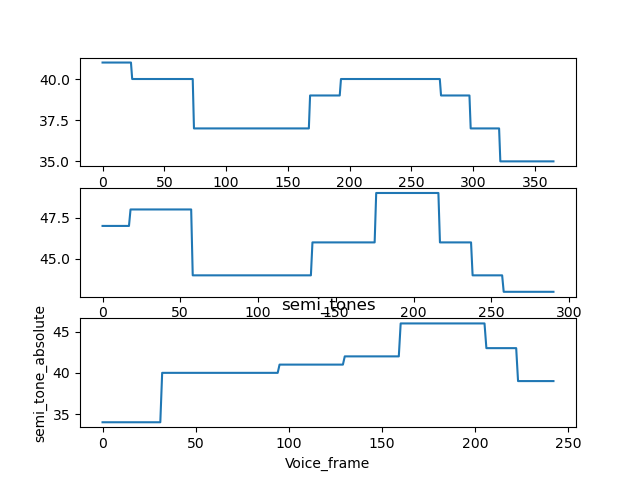
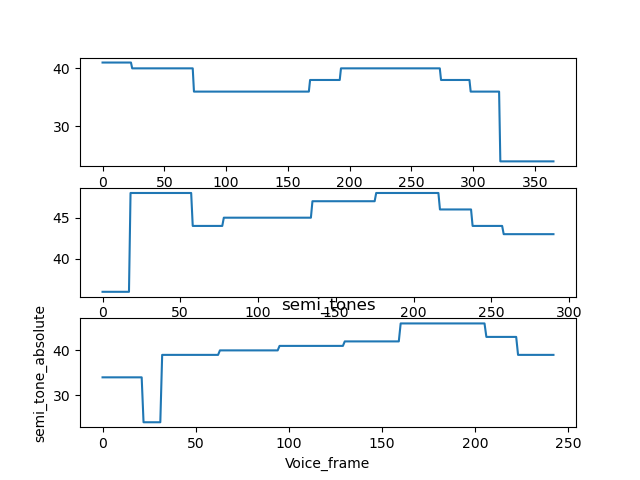
。

diff --git a/assignment2/test.py b/assignment2/test.py
@@ -32,10 +32,10 @@ pitch1 = frIsequence1[0, :]
 
 # test if transposition invariant
 frIsequence1_trans = np.copy(frIsequence1)
-shift = 5
+shift = 7
 for i in range(0, frame_num1):
     # f2 = f1 * (2 ^ (1 / 12)) ^ n
-    frIsequence1_trans[0,i] = frIsequence1[0, i] * 2**(shift/12)
+    frIsequence1_trans[0, i] = frIsequence1[0, i] * 2**(shift/12)
 
 pitch1_trans = frIsequence1_trans[0, :]
 # print(type(pitch1_trans),'what pitch1 trans type')
@@ -56,47 +56,60 @@ pitch1_trans = frIsequence1_trans[0, :]
 # Feature
 pitch_log1, intensity_nor1 = normalized_intensity(frIsequence1)
 filter_pitch1, filter_pitch1_log = filter_pitch(frIsequence1)
+
+print(filter_pitch1, '\n', 'filter_pitch value')
+# print(set(filter_pitch1), '\n', 'filter_pitch value')
+
 voice_frame_num1 = len(filter_pitch1)
 frequence1_temp = np.arange(0, voice_frame_num1)
 
 semi_absolute1, semi_drag1 = semi_adjust(filter_pitch1)
 print(semi_absolute1, '\n', 'absolute tone original')
-print(semi_drag1, '\n', 'trans original')
+notes = semi_absolute1
+# for i in notes:
+#     _,_,_,note = analysis_note(i)
+#     print(note, end="")
+# print(semi_drag1, '\n', 'original drag')
 
 
 
 pitch_log1_trans, intensity_nor1_trans = normalized_intensity(frIsequence1_trans)
 filter_pitch1_trans, filter_pitch1_trans_log = filter_pitch(frIsequence1_trans)
+print(set(filter_pitch1_trans),'\n','filter_pitch_trans value')
 semi_absolute1_trans, semi_drag1_trans = semi_adjust(filter_pitch1_trans)
 
 voice_frame_num1_trans = len(filter_pitch1_trans)
 frequence1_temp_trans = np.arange(0, voice_frame_num1_trans)
 
 
-print(semi_absolute1_trans, '\n', 'absolute tone original trans')
-print(semi_drag1_trans, '\n', 'trans original trans')
+print(semi_absolute1_trans, '\n', 'absolute tone trans')
+# print(semi_drag1_trans, '\n', 'trans drag')
 
-
-gap1 = np.max(pitch_log1)-np.min(pitch_log1)
-gap1_trans = np.max(pitch_log1_trans)-np.min(pitch_log1_trans)
-print(gap1, gap1_trans,'gap')
-
-
-# plt.figure(figsize=[10,15])
-# plt.plot(frequence1_temp, filter_pitch1_log)
-# plt.plot(frequence1_temp_trans, filter_pitch1_trans_log)
-# plt.xlabel('frame number')
-# plt.ylabel('filter_pitch')
-# plt.title('melody 1 and trans')
-# plt.show()
 #
-# plt.figure(figsize=[10,15])
-# plt.plot(frequence1, pitch_log1)
-# plt.plot(frequence1, pitch_log1_trans)
-# plt.xlabel('frame index')
-# plt.ylabel('pitch_log_scale')
-# plt.title('melody 1')
-# plt.show()
+# gap1 = np.max(pitch_log1)-np.min(pitch_log1)
+# gap1_trans = np.max(pitch_log1_trans)-np.min(pitch_log1_trans)
+# print(gap1, gap1_trans,'gap')
+
+plt.figure(figsize=[10,15])
+plt.plot(frequence1_temp, filter_pitch1)
+plt.plot(frequence1_temp_trans, filter_pitch1_trans)
+plt.xlabel('frame number')
+plt.ylabel('filter_pitch')
+plt.title('melody 1 and trans')
+plt.savefig('figures/filter_pitch_test.png')
+plt.show()
+#
+
+plt.figure(figsize=[10,15])
+plt.plot(frequence1_temp, filter_pitch1_log)
+plt.plot(frequence1_temp_trans, filter_pitch1_trans_log)
+plt.xlabel('frame number')
+plt.ylabel('filter_pitch_log')
+plt.title('melody 1 and trans')
+plt.savefig('figures/filter_pitch_log_test.png')
+plt.show()
+#
+
 
 plt.figure(figsize=[10,15])
 plt.plot(frequence1_temp, semi_absolute1)
@@ -104,7 +117,17 @@ plt.plot(frequence1_temp, semi_absolute1_trans)
 plt.xlabel('frame index')
 plt.ylabel('semi-drag')
 plt.title('melody 1 and trans')
-plt.savefig('figures/semitones_drag.png')
+plt.savefig('figures/semitones_absolute_test.png')
+plt.show()
+
+
+plt.figure(figsize=[10,15])
+plt.plot(frequence1_temp, semi_drag1)
+plt.plot(frequence1_temp, semi_drag1_trans)
+plt.xlabel('frame index')
+plt.ylabel('semi-drag')
+plt.title('melody 1 and trans')
+plt.savefig('figures/semitones_drag_test.png')
 plt.show()
 
 # #
@@ -113,13 +136,14 @@ plt.show()
 # x = np.linspace(5.0313135, 6.03135108, 12)
 # print(x)
 # print(octave_C_log)
-#
+
 # test_note = 2**7.948
 # test_note2 = 2**8
 # print(test_note)
-# octave, semi_tone_relative, semitone_absolute, note = analysis_note(test_note)
-# print(octave, semi_tone_relative, semitone_absolute, note)
-#
 # print(test_note2)
+octave, semi_tone_relative, semitone_absolute, note = analysis_note(126)
+print(octave, semi_tone_relative, semitone_absolute, note)
+
+#
 # octave2, semi_tone_relative2, semitone_absolute2, note2 = analysis_note(test_note2)
 # print(octave2, semi_tone_relative2, semitone_absolute2, note2)

diff --git a/assignment2/try.py b/assignment2/try.py
@@ -1,41 +1,63 @@
 import statistics
 import numpy as np
+from Feature_Extractor import normalized_intensity, filter_pitch, semi_adjust, analysis_note
 # list comprehension 优雅的算法
-input_list = [0, 0, 0, 1, 2, 3, 0, 0, 0, 0, 5, 8, 9, 0, 0, 0, 0, 2, 9, 8]
-
-sublists = []
-sublist = []
-
-# len = 3
-    # hyperparameter len(assigned duration of each note and silence)
-
-for num in input_list:
-    if num != 0:
-        sublist.append(num)
-    elif sublist:
-        templist = [statistics.median(sublist)] * len(sublist)
-        # sublists.append([0] * len)
-        sublists.append(templist)
-        sublist = []
-
-if sublist:
-    templist_last = [statistics.median(sublist)] * len(sublist)
-    # sublists.append([0] * len)
-    sublists.append(templist_last)
-    # sublists.append([0] * len)
-
-sublists = [elem for row in sublists for elem in row]
-    # filter out the silence, and use the median value of non-zeros, make it a new list
-print(sublists)
-# filter out the silence, and use the median value
+# input_list = [0, 0, 0, 1, 2, 3, 0, 0, 0, 0, 5, 8, 9, 0, 0, 0, 0, 2, 9, 8]
+#
+# sublists = []
+# sublist = []
+#
+# # len = 3
+#     # hyperparameter len(assigned duration of each note and silence)
+#
+# for num in input_list:
+#     if num != 0:
+#         sublist.append(num)
+#     elif sublist:
+#         templist = [statistics.median(sublist)] * len(sublist)
+#         # sublists.append([0] * len)
+#         sublists.append(templist)
+#         sublist = []
+#
+# if sublist:
+#     templist_last = [statistics.median(sublist)] * len(sublist)
+#     # sublists.append([0] * len)
+#     sublists.append(templist_last)
+#     # sublists.append([0] * len)
+#
+# sublists = [elem for row in sublists for elem in row]
+#     # filter out the silence, and use the median value of non-zeros, make it a new list
+# print(sublists)
+# # filter out the silence, and use the median value
 
 # test
-semi_drag = np.array([1,1,1,5,5,5,9,9,9,9,9,10,10,10,25,2,2,2,6,6])
+# semi_drag = np.array([1,-15,9,10,25,2])
+#
+# for i in range(len(semi_drag)):
+#     if semi_drag[i] > 12 or semi_drag[i] < -12:  # limitation, how to perceive octave jump? worth thinking
+#         if semi_drag[i] > 12:
+#            semi_drag[i] = semi_drag[i] % 12
+#         else:
+#             semi_drag[i] = semi_drag[i] % 12 - 12
+#
+# print(semi_drag)
 
-for i in range(len(semi_drag)):
-    if semi_drag[i] > 12:  # limitation, how to perceive octave jump? worth thinking
-        semi_drag[i] = semi_drag[i] % 12
+# print(np.log2(32.703), np.log2(1046.502))
 
-print(semi_drag)
+#
+octave_C = [32.703, 65.406, 130.813, 261.626, 523.251, 1046.502]  # C1-C6 frequency in HZ, C4->middle C
+octave_C_log = np.log2(octave_C)
+x = np.linspace(5.0313135, 6.03135108, 12)
+print(x)
+print(octave_C_log)
 
-print(np.log2(32.703), np.log2(1046.502))
+# test_note = 2**7.948
+# # test_note2 = 2**8
+# print(test_note)
+# print(test_note2)
+octave, semi_tone_relative, semitone_absolute, note = analysis_note(168.43556171751226)
+print(octave, semi_tone_relative, semitone_absolute, note)
+
+#
+# octave2, semi_tone_relative2, semitone_absolute2, note2 = analysis_note(test_note2)
+# print(octave2, semi_tone_relative2, semitone_absolute2, note2)

diff --git a/assignment2/Feature_Extractor.py b/assignment2/Feature_Extractor.py
@@ -5,21 +5,22 @@ import math
 import statistics
 
 
-def median_nonzero(input_list):
-    # hyperparameter len(assigned duration of each note and silence)
+def mean_nonzero(input_list):
     sublists = []
     sublist = []
-
+    sublist_zero = []
     for num in input_list:
+        # if num == 0:
+        #     sublist_zero.append(0)
         if num != 0:
             sublist.append(num)
         elif sublist:
-            templist = [statistics.median(sublist)] * len(sublist)
+            templist = [statistics.mean(sublist)] * len(sublist)
             sublists.append(templist)
             sublist = []
 
     if sublist:
-        templist_last = [statistics.median(sublist)] * len(sublist)
+        templist_last = [statistics.mean(sublist)] * len(sublist)
         sublists.append(templist_last)
 
     sublists = [elem for row in sublists for elem in row]
@@ -64,8 +65,8 @@ def filter_pitch(frIsequence):
             pitch[i] = 0
     # subdivide the note based on non-zero value
 
-    pitch = median_nonzero(pitch)
-    pitch_log = median_nonzero(pitch_log)
+    pitch = mean_nonzero(pitch)
+    pitch_log = np.log2(pitch)
     return pitch, pitch_log
 
 
@@ -150,15 +151,15 @@ def semi_adjust(filter_pitch):
 
     # transpose invariant
     # relative interval should stay the same, all drag to C1
-    lowest = np.min(semi_tone_absolute)
-    semi_drag = semi_tone_absolute - lowest
+    mid = np.median(semi_tone_absolute)
+    semi_drag = semi_tone_absolute - mid
 
 
     # octave invariant(suddenly one note change)
     # how to define a sudden jump note
-    for i in range(len(semi_drag)):
-        if semi_drag[i] > 12:    # limitation, how to perceive octave jump? worth thinking
-            semi_drag[i] = semi_drag[i] % 12
+    # for i in range(len(semi_drag)):
+    #     if semi_drag[i] > 12 or semi_drag[i] < 12:    # limitation, how to perceive octave jump? worth thinking
+    #         semi_drag[i] = semi_drag[i] % 12
     return semi_tone_absolute, semi_drag
 
 

diff --git a/assignment2/main.py b/assignment2/main.py
@@ -199,7 +199,7 @@ plt.ylabel('Normalized intensity')
 plt.title('melody 3')
 plt.savefig('figures/normalized intensity.png')
 plt.show()
-
+# ----------------------------------------------------
 
 filter_pitch1, filter_pitch1_log = filter_pitch(frIsequence1)
 print(filter_pitch1_log)
